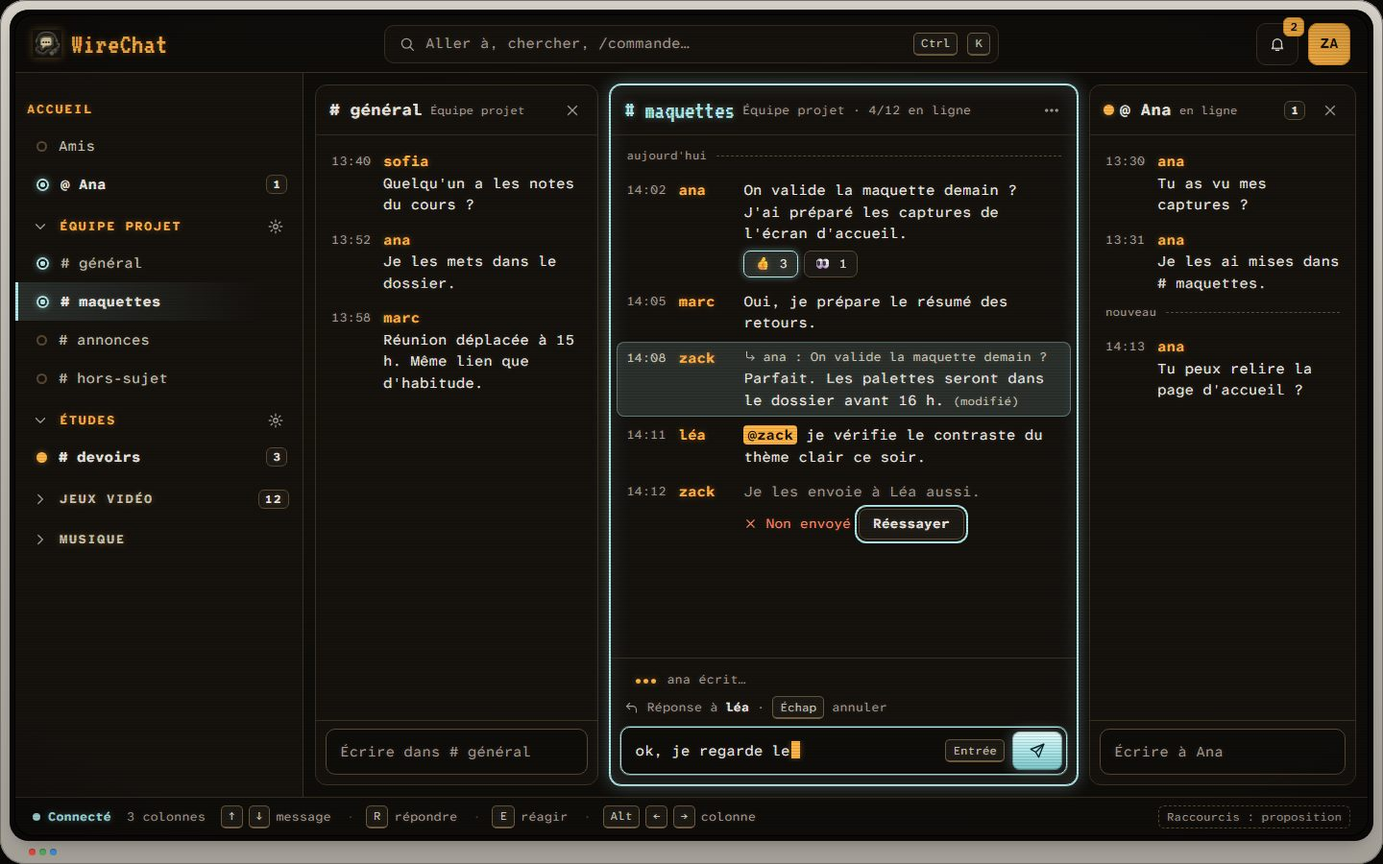
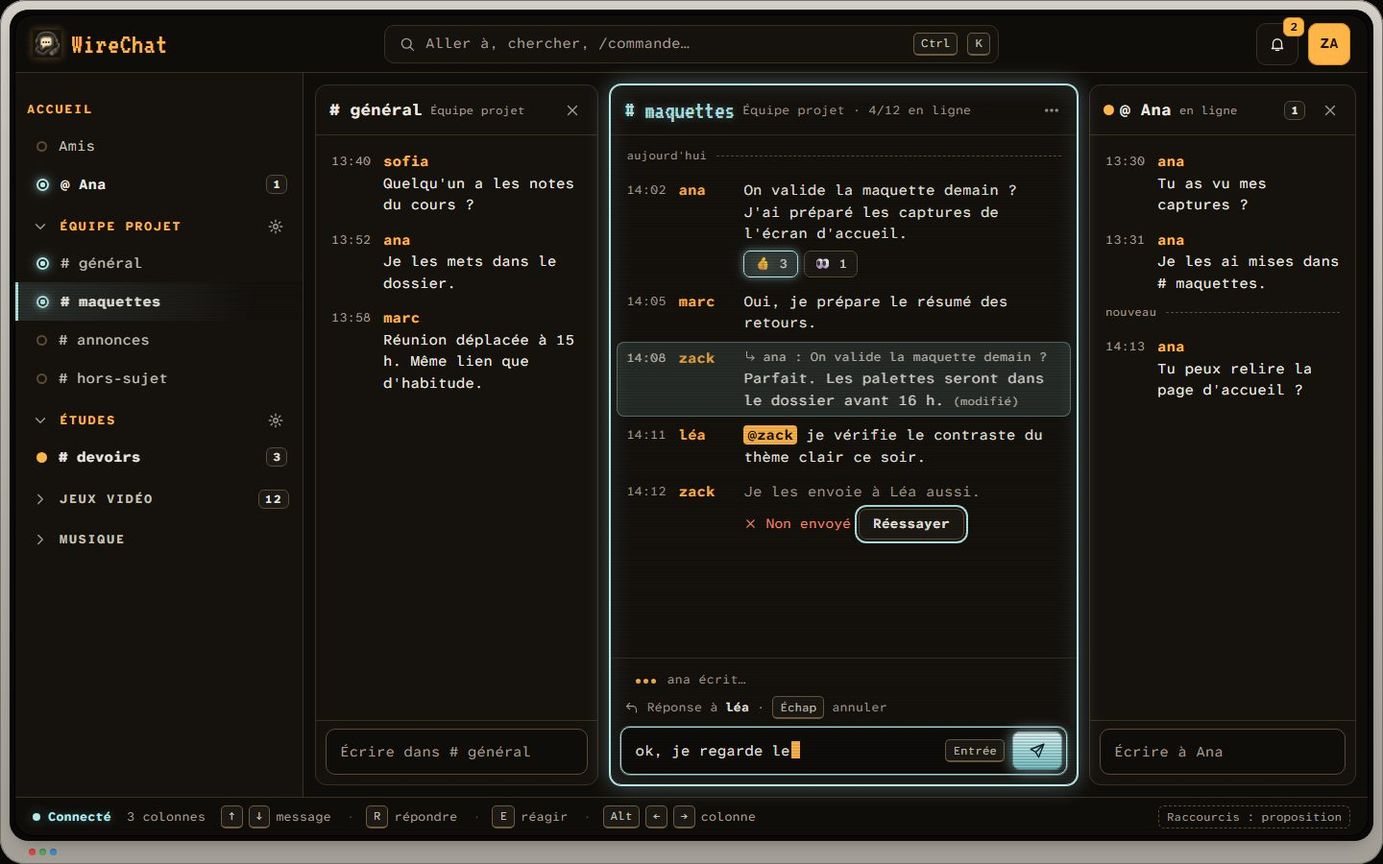
CRT effect only on blue elements, animated

diff --git a/Crt-Spec.html b/Crt-Spec.html
@@ -5,16 +5,14 @@
 <link rel="stylesheet" href="https://fonts.googleapis.com/css2?family=Atkinson+Hyperlegible+Mono:wght@400;700&family=VT323&display=swap">
 <style>
 body{margin:0;background:#0b0a08}
-.dark{--chassis:#1d1b18;--rim:#8e8a82;--glass:#0f0d0a;--panel:#15120e;--raise:#1d1914;--line:#3a3022;--line2:#5a4a33;--ph:#ece8e1;--ph2:#c8c2b8;--dim:#a39d93;--hot:#ffb547;--amb:#ffb547;--amb-hi:#ffd58f;--amb-lo:#d98a1c;--onamb:#1a1206;--blue:#b2e9eb;--blue-ink:#b2e9eb;--blue-fill:rgba(178,233,235,.14);--key-b-hi:#e6fbfc;--key-b:#b2e9eb;--key-b-lo:#7cc5c9;--onblue:#0b2427;--focus:#b2e9eb;--blue-glow:rgba(178,233,235,.38);--err:#ff8a66;--glow:0 0 5px rgba(236,232,225,.2);--glow-a:0 0 6px rgba(255,181,71,.38);--glow-b:0 0 7px rgba(178,233,235,.45);--scan:rgba(0,0,0,.13);--vig:rgba(0,0,0,.42);--sel:rgba(255,181,71,.28);--field:rgba(255,170,60,.06);--keyb:#6e5b3f}
+.dark{--chassis:#1d1b18;--rim:#8e8a82;--glass:#0f0d0a;--panel:#15120e;--raise:#1d1914;--line:#3a3022;--line2:#5a4a33;--ph:#ece8e1;--ph2:#c8c2b8;--dim:#a39d93;--hot:#ffb547;--amb:#ffb547;--amb-hi:#ffd58f;--amb-lo:#d98a1c;--onamb:#1a1206;--blue:#b2e9eb;--blue-ink:#b2e9eb;--blue-fill:rgba(178,233,235,.14);--key-b-hi:#e6fbfc;--key-b:#b2e9eb;--key-b-lo:#7cc5c9;--onblue:#0b2427;--focus:#b2e9eb;--blue-glow:rgba(178,233,235,.38);--err:#ff8a66;--glow:none;--glow-a:none;--glow-b:0 0 7px rgba(178,233,235,.45);--scan:rgba(0,0,0,.13);--vig:rgba(0,0,0,.42);--sel:rgba(255,181,71,.28);--field:rgba(255,170,60,.06);--keyb:#6e5b3f}
 .light{--chassis:#cfcac0;--rim:#8e8a82;--glass:#e4e1da;--panel:#efede7;--raise:#f8f6f1;--line:#c9c2b4;--line2:#9c9485;--ph:#1c1712;--ph2:#3d3427;--dim:#5e5444;--hot:#8a4f00;--amb:#e7a13c;--amb-hi:#f6c77a;--amb-lo:#c8811a;--onamb:#1a1206;--blue:#0b5d63;--blue-ink:#0b5d63;--blue-fill:#b2e9eb;--key-b-hi:#2a8a91;--key-b:#0b5d63;--key-b-lo:#07454a;--onblue:#ffffff;--focus:#0b5d63;--blue-glow:rgba(11,93,99,.22);--err:#b3261e;--glow:none;--glow-a:none;--glow-b:none;--scan:rgba(40,30,15,.05);--vig:rgba(70,58,38,.14);--sel:rgba(231,161,60,.35);--field:rgba(255,255,255,.35);--keyb:#9c9485}
 .tv{position:relative;box-sizing:border-box;width:100%;height:100%;padding:16px 16px 30px;border-radius:26px;background:linear-gradient(180deg,#d4d0c8 0%,#b9b5ad 48%,#a39f97 100%);box-shadow:inset 0 0 0 1px #77736c,inset 0 1px 0 rgba(255,255,255,.6),0 10px 30px rgba(0,0,0,.45)}
 .tv:before{content:"";position:absolute;inset:10px 10px 24px;border-radius:20px;background:#0c0b0a;box-shadow:inset 0 2px 3px rgba(0,0,0,.8)}
 .tv>.screen{position:relative;z-index:1}
 .bezel-triad{position:absolute;left:30px;bottom:9px;display:flex;gap:4px;z-index:2}.bezel-triad i{width:7px;height:7px;border-radius:50%;background:#d8473a;box-shadow:inset 0 1px 1px rgba(0,0,0,.35)}.bezel-triad i:nth-child(2){background:#4fa45a}.bezel-triad i:nth-child(3){background:#3f86c6}
-.screen{position:relative;box-sizing:border-box;height:100%;border-radius:18px;overflow:hidden;background:radial-gradient(ellipse 70% 60% at 50% 45%,var(--field) 0%,transparent 70%),var(--glass);color:var(--ph);font-family:'Atkinson Hyperlegible Mono',ui-monospace,monospace;font-size:15px;line-height:1.5;text-shadow:var(--glow);box-shadow:0 0 0 1px #000,0 6px 18px rgba(0,0,0,.35)}
+.screen{position:relative;box-sizing:border-box;height:100%;border-radius:18px;overflow:hidden;background:var(--glass);color:var(--ph);font-family:'Atkinson Hyperlegible Mono',ui-monospace,monospace;font-size:15px;line-height:1.5;text-shadow:var(--glow);box-shadow:0 0 0 1px #000,0 6px 18px rgba(0,0,0,.35)}
 .screen ::selection{background:var(--sel);color:var(--ph)}
-.fx .screen:after{content:"";position:absolute;inset:0;z-index:30;pointer-events:none;background:repeating-linear-gradient(0deg,var(--scan) 0 1px,transparent 1px 3px)}
-.fx .screen:before{content:"";position:absolute;inset:0;z-index:31;pointer-events:none;border-radius:18px;background:radial-gradient(ellipse 85% 80% at 50% 50%,transparent 72%,var(--vig) 100%)}
 .noglow .screen{text-shadow:none}
 svg{width:18px;height:18px;fill:none;stroke:currentColor;stroke-width:1.8;stroke-linecap:round;stroke-linejoin:round;flex:none}
 button{font:inherit;color:inherit;text-shadow:inherit;background:none;border:0;padding:0;cursor:pointer}
@@ -23,7 +21,6 @@ button{font:inherit;color:inherit;text-shadow:inherit;background:none;border:0;p
 .brand{display:flex;align-items:center;gap:10px}
 .brand img{width:30px;height:30px;object-fit:contain;filter:drop-shadow(0 0 4px rgba(255,181,71,.35))}
 .word{font-family:'VT323',monospace;font-size:30px;line-height:1;color:var(--hot);letter-spacing:.02em}
-.triad{display:flex;gap:3px;margin-left:2px}.triad i{width:6px;height:6px;border-radius:50%;background:#e2584a}.triad i:nth-child(2){background:#7cc37a}.triad i:nth-child(3){background:#6fb6e8}
 .cmd{display:flex;align-items:center;gap:10px;height:40px;box-sizing:border-box;padding:0 8px 0 14px;max-width:640px;width:100%;justify-self:center;background:var(--panel);border:1px solid var(--line);border-radius:10px;color:var(--dim)}
 .cmd .ph{flex:1;white-space:nowrap;overflow:hidden;text-overflow:ellipsis}
 .kbd{display:inline-flex;align-items:center;justify-content:center;min-width:22px;height:24px;box-sizing:border-box;padding:0 7px;border:1px solid var(--keyb);border-bottom-width:2px;border-radius:5px;font-size:12px;color:var(--ph2);background:var(--raise)}
@@ -31,7 +28,7 @@ button{font:inherit;color:inherit;text-shadow:inherit;background:none;border:0;p
 .ib{position:relative;width:44px;height:44px;display:flex;align-items:center;justify-content:center;border:1px solid var(--line);border-radius:10px;background:var(--panel);color:var(--ph)}
 .cnt{display:inline-flex;align-items:center;justify-content:center;min-width:22px;height:20px;box-sizing:border-box;padding:0 6px;border-radius:6px;background:var(--raise);border:1px solid var(--line2);color:var(--ph);font-size:12px;font-weight:700}
 .ib .cnt{position:absolute;top:-7px;right:-7px;background:var(--amb);color:var(--onamb);border-color:var(--amb-lo);text-shadow:none}
-.me{width:44px;height:44px;display:flex;align-items:center;justify-content:center;border-radius:10px;background:linear-gradient(180deg,var(--amb-hi),var(--amb) 45%,var(--amb-lo));color:var(--onamb);font-weight:700;text-shadow:none;box-shadow:inset 0 0 0 1px rgba(0,0,0,.3),0 0 12px var(--sel)}
+.me{text-shadow:none;width:44px;height:44px;display:flex;align-items:center;justify-content:center;border-radius:10px;background:linear-gradient(180deg,var(--amb-hi),var(--amb) 45%,var(--amb-lo));color:var(--onamb);font-weight:700;text-shadow:none;box-shadow:inset 0 0 0 1px rgba(0,0,0,.3),0 0 12px var(--sel)}
 .body{display:grid;grid-template-columns:300px minmax(0,1fr);min-height:0}
 .side{border-right:1px solid var(--line);padding:14px 0;overflow:hidden;background:var(--panel)}
 .sec{display:flex;align-items:center;gap:6px;min-height:36px;padding:0 14px 0 12px;margin-top:6px;font-weight:700;font-size:13px;letter-spacing:.12em;text-transform:uppercase;color:var(--hot)}
@@ -47,8 +44,6 @@ button{font:inherit;color:inherit;text-shadow:inherit;background:none;border:0;p
 .row.un .nm{color:var(--ph);font-weight:700}
 .row.on{background:linear-gradient(90deg,var(--blue-fill),transparent 85%);color:var(--ph);box-shadow:inset 3px 0 0 var(--blue)}
 .row.on .nm{color:var(--ph);font-weight:700}
-.legend{margin:18px 14px 0;padding:12px 12px;border:1px dashed var(--line2);border-radius:8px;font-size:12px;color:var(--dim);display:grid;gap:6px}
-.legend div{display:flex;align-items:center;gap:8px}
 .cols{display:grid;grid-template-columns:minmax(0,.85fr) minmax(0,1.4fr) minmax(0,.8fr);gap:12px;padding:12px;min-height:0}
 .col{display:grid;grid-template-rows:52px minmax(0,1fr) auto;min-height:0;border:1px solid var(--line);border-radius:12px;background:var(--panel);overflow:hidden}
 .col.focus{border-color:var(--blue);box-shadow:0 0 0 1px var(--blue),0 0 18px var(--blue-glow),inset 0 0 22px var(--blue-fill)}
@@ -151,6 +146,22 @@ button{font:inherit;color:inherit;text-shadow:inherit;background:none;border:0;p
 .chrow .open{font-size:12px;color:var(--blue-ink)}
 .word,.sec,.m b,.card h2,.spec h2,.dot.un,.typ i,.caret,.chip.mine,.men{text-shadow:var(--glow-a)}
 .dot.un,.typ i,.caret{box-shadow:var(--glow-a)}
+.col.focus,.send,.chip.mine,.m.sel,.btn.done,.sec.cur,.row.on,.status .live{position:relative;isolation:isolate}
+.col.focus,.send,.chip.mine,.m.sel,.btn.done,.sec.cur,.row.on{overflow:hidden}
+.fx .col.focus:after,.fx .send:after,.fx .chip.mine:after,.fx .m.sel:after,.fx .btn.done:after,.fx .sec.cur:after,.fx .row.on:after{content:"";position:absolute;inset:0;z-index:5;pointer-events:none;border-radius:inherit;background:repeating-linear-gradient(0deg,var(--crt-line) 0 1px,transparent 1px 3px);animation:crt-roll 1.2s linear infinite}
+.fx .col.focus:before,.fx .send:before,.fx .m.sel:before,.fx .sec.cur:before{content:"";position:absolute;left:0;right:0;top:0;height:38%;z-index:6;pointer-events:none;border-radius:inherit;background:linear-gradient(180deg,transparent,var(--crt-band) 50%,transparent);animation:crt-sweep 7s cubic-bezier(.4,0,.6,1) infinite}
+.fx .col.focus{animation:crt-breathe-frame 4s ease-in-out infinite alternate}
+.fx .send,.fx .chip.mine,.fx .btn.done{animation:crt-breathe 4s ease-in-out infinite alternate}
+.fx .dot.open,.fx .status .live i{animation:crt-breathe 4s ease-in-out infinite alternate}
+.fx .focus .ch .t,.fx .status .live,.fx .chrow.on .nm,.fx .sec.cur .lbl{animation:crt-text 4s ease-in-out infinite alternate}
+.dark{--crt-line:rgba(0,0,0,.2);--crt-band:rgba(178,233,235,.16)}
+.light{--crt-line:rgba(11,93,99,.14);--crt-band:rgba(255,255,255,.4)}
+@keyframes crt-roll{from{background-position:0 0}to{background-position:0 3px}}
+@keyframes crt-sweep{0%{transform:translateY(-110%)}60%,100%{transform:translateY(280%)}}
+@keyframes crt-breathe{from{filter:drop-shadow(0 0 2px var(--blue-glow))}to{filter:drop-shadow(0 0 7px var(--blue-glow))}}
+@keyframes crt-breathe-frame{from{box-shadow:0 0 0 1px var(--blue),0 0 10px var(--blue-glow),inset 0 0 14px var(--blue-fill)}to{box-shadow:0 0 0 1px var(--blue),0 0 24px var(--blue-glow),inset 0 0 26px var(--blue-fill)}}
+@keyframes crt-text{from{text-shadow:0 0 3px var(--blue-glow)}to{text-shadow:0 0 9px var(--blue-glow)}}
+@media (prefers-reduced-motion:reduce){.fx *,.fx *:before,.fx *:after{animation:none!important}}
 .send{color:var(--onblue);background-color:var(--key-b);background-image:linear-gradient(180deg,var(--key-b-hi) 0%,var(--key-b) 46%,var(--key-b-lo) 100%);box-shadow:inset 0 0 0 1px rgba(0,0,0,.32),inset 0 1px 0 rgba(255,255,255,.45),0 0 14px var(--blue-glow),0 2px 4px rgba(0,0,0,.35)}
 .chip.mine{border-color:var(--blue);background:var(--blue-fill);box-shadow:var(--glow-b)}
 .me,.btn.pri,.sv .badge{background-image:none;background-color:var(--amb);box-shadow:inset 0 0 0 1px var(--amb-lo)}
@@ -190,7 +201,7 @@ button{font:inherit;color:inherit;text-shadow:inherit;background:none;border:0;p
 <div class="tv"><span class="bezel-triad" aria-hidden="true"><i></i><i></i><i></i></span><div class="screen" style="overflow:hidden">
 <div class="spec">
   <h1 class="word" style="font-size:52px">WireChat, sur un écran cathodique</h1>
-  <p class="lead">Texte blanc phosphore, ambre pour les noms, titres et non-lus, bleu Trinitron <b>#B2E9EB</b> pour ce qui est actif. Les effets (lueur, lignes de balayage, vignettage) restent légers et peuvent être coupés dans les réglages (Tweaks : effets).</p>
+  <p class="lead">Texte blanc, ambre pour les noms, titres et non-lus. L'effet cathodique (lignes de balayage qui défilent, lueur qui respire) est réservé au bleu Trinitron <b>#B2E9EB</b>, donc à ce qui est actif. Il s'arrête si le système demande moins d'animations et peut être coupé (Tweaks : effets).</p>
   <div class="two">
     <section><h2>Palette sombre</h2>
       <div class="sw"><span style="background:#0f0d0a"></span><b>Verre</b><small>#0f0d0a</small></div><div class="sw"><span style="background:#15120e"></span><b>Panneau</b><small>#15120e</small></div><div class="sw"><span style="background:#ece8e1"></span><b>Texte</b><small>#ece8e1 · 15,3:1</small></div><div class="sw"><span style="background:#ffb547"></span><b>Noms</b><small>#ffb547 · 10,6:1</small></div><div class="sw"><span style="background:#a39d93"></span><b>Atténué</b><small>#a39d93 · 6,9:1</small></div><div class="sw"><span style="background:#b2e9eb"></span><b>Bleu actif</b><small>#b2e9eb · 14:1</small></div><div class="sw"><span style="background:#ff8a66"></span><b>Erreur</b><small>#ff8a66 · 8,1:1</small></div><div class="sw"><span style="background:#8e8a82"></span><b>Alu</b><small>#8e8a82</small></div>
@@ -203,9 +214,9 @@ button{font:inherit;color:inherit;text-shadow:inherit;background:none;border:0;p
     <div class="anat">
       <div class="big"><div class="field" style="min-height:64px"><span class="val" style="font-size:20px">ok, je regarde le<span class="caret" style="height:22px;width:11px"></span></span><span class="kbd">Entrée</span><button class="send" style="width:74px;height:56px" aria-label="Envoyer"><svg viewBox="0 0 24 24" aria-hidden="true"><path d="M21 3L10 14"/><path d="M21 3l-7 18-4-7-7-4z"/></svg></button></div></div>
       <ol>
-        <li><b>Lueur</b> : halo léger sur le texte blanc, plus marqué sur l'ambre et le bleu. Désactivée en thème clair.</li>
-        <li><b>Balayage</b> : une ligne sombre toutes les 3 px sur tout l'écran, aussi sur les boutons pleins.</li>
-        <li><b>Vignettage</b> : les coins s'assombrissent comme derrière un verre bombé.</li>
+        <li><b>Lueur qui respire</b> : le halo bleu monte et redescend doucement toutes les 4 s. Aucun clignotement.</li>
+        <li><b>Balayage</b> : une ligne sombre toutes les 3 px, qui défile lentement vers le bas, seulement sur les éléments bleus.</li>
+        <li><b>Bande de rafraîchissement</b> : une bande claire traverse l'élément bleu de haut en bas toutes les 7 s.</li>
         <li><b>Touche lumineuse</b> : bouton d'envoi en dégradé bleu Trinitron, reflet en haut, liseré sombre, halo.</li>
         <li><b>Curseur bloc</b> et <b>touches</b> dessinées pour les raccourcis.</li>
         <li><b>Bleu Trinitron</b> : cadre de la colonne active, touche d'envoi, canal ouvert (anneau à point), état connecté.</li>

diff --git a/Crt-Chat.html b/Crt-Chat.html
@@ -5,16 +5,14 @@
 <link rel="stylesheet" href="https://fonts.googleapis.com/css2?family=Atkinson+Hyperlegible+Mono:wght@400;700&family=VT323&display=swap">
 <style>
 body{margin:0;background:#0b0a08}
-.dark{--chassis:#1d1b18;--rim:#8e8a82;--glass:#0f0d0a;--panel:#15120e;--raise:#1d1914;--line:#3a3022;--line2:#5a4a33;--ph:#ece8e1;--ph2:#c8c2b8;--dim:#a39d93;--hot:#ffb547;--amb:#ffb547;--amb-hi:#ffd58f;--amb-lo:#d98a1c;--onamb:#1a1206;--blue:#b2e9eb;--blue-ink:#b2e9eb;--blue-fill:rgba(178,233,235,.14);--key-b-hi:#e6fbfc;--key-b:#b2e9eb;--key-b-lo:#7cc5c9;--onblue:#0b2427;--focus:#b2e9eb;--blue-glow:rgba(178,233,235,.38);--err:#ff8a66;--glow:0 0 5px rgba(236,232,225,.2);--glow-a:0 0 6px rgba(255,181,71,.38);--glow-b:0 0 7px rgba(178,233,235,.45);--scan:rgba(0,0,0,.13);--vig:rgba(0,0,0,.42);--sel:rgba(255,181,71,.28);--field:rgba(255,170,60,.06);--keyb:#6e5b3f}
+.dark{--chassis:#1d1b18;--rim:#8e8a82;--glass:#0f0d0a;--panel:#15120e;--raise:#1d1914;--line:#3a3022;--line2:#5a4a33;--ph:#ece8e1;--ph2:#c8c2b8;--dim:#a39d93;--hot:#ffb547;--amb:#ffb547;--amb-hi:#ffd58f;--amb-lo:#d98a1c;--onamb:#1a1206;--blue:#b2e9eb;--blue-ink:#b2e9eb;--blue-fill:rgba(178,233,235,.14);--key-b-hi:#e6fbfc;--key-b:#b2e9eb;--key-b-lo:#7cc5c9;--onblue:#0b2427;--focus:#b2e9eb;--blue-glow:rgba(178,233,235,.38);--err:#ff8a66;--glow:none;--glow-a:none;--glow-b:0 0 7px rgba(178,233,235,.45);--scan:rgba(0,0,0,.13);--vig:rgba(0,0,0,.42);--sel:rgba(255,181,71,.28);--field:rgba(255,170,60,.06);--keyb:#6e5b3f}
 .light{--chassis:#cfcac0;--rim:#8e8a82;--glass:#e4e1da;--panel:#efede7;--raise:#f8f6f1;--line:#c9c2b4;--line2:#9c9485;--ph:#1c1712;--ph2:#3d3427;--dim:#5e5444;--hot:#8a4f00;--amb:#e7a13c;--amb-hi:#f6c77a;--amb-lo:#c8811a;--onamb:#1a1206;--blue:#0b5d63;--blue-ink:#0b5d63;--blue-fill:#b2e9eb;--key-b-hi:#2a8a91;--key-b:#0b5d63;--key-b-lo:#07454a;--onblue:#ffffff;--focus:#0b5d63;--blue-glow:rgba(11,93,99,.22);--err:#b3261e;--glow:none;--glow-a:none;--glow-b:none;--scan:rgba(40,30,15,.05);--vig:rgba(70,58,38,.14);--sel:rgba(231,161,60,.35);--field:rgba(255,255,255,.35);--keyb:#9c9485}
 .tv{position:relative;box-sizing:border-box;width:100%;height:100%;padding:16px 16px 30px;border-radius:26px;background:linear-gradient(180deg,#d4d0c8 0%,#b9b5ad 48%,#a39f97 100%);box-shadow:inset 0 0 0 1px #77736c,inset 0 1px 0 rgba(255,255,255,.6),0 10px 30px rgba(0,0,0,.45)}
 .tv:before{content:"";position:absolute;inset:10px 10px 24px;border-radius:20px;background:#0c0b0a;box-shadow:inset 0 2px 3px rgba(0,0,0,.8)}
 .tv>.screen{position:relative;z-index:1}
 .bezel-triad{position:absolute;left:30px;bottom:9px;display:flex;gap:4px;z-index:2}.bezel-triad i{width:7px;height:7px;border-radius:50%;background:#d8473a;box-shadow:inset 0 1px 1px rgba(0,0,0,.35)}.bezel-triad i:nth-child(2){background:#4fa45a}.bezel-triad i:nth-child(3){background:#3f86c6}
-.screen{position:relative;box-sizing:border-box;height:100%;border-radius:18px;overflow:hidden;background:radial-gradient(ellipse 70% 60% at 50% 45%,var(--field) 0%,transparent 70%),var(--glass);color:var(--ph);font-family:'Atkinson Hyperlegible Mono',ui-monospace,monospace;font-size:15px;line-height:1.5;text-shadow:var(--glow);box-shadow:0 0 0 1px #000,0 6px 18px rgba(0,0,0,.35)}
+.screen{position:relative;box-sizing:border-box;height:100%;border-radius:18px;overflow:hidden;background:var(--glass);color:var(--ph);font-family:'Atkinson Hyperlegible Mono',ui-monospace,monospace;font-size:15px;line-height:1.5;text-shadow:var(--glow);box-shadow:0 0 0 1px #000,0 6px 18px rgba(0,0,0,.35)}
 .screen ::selection{background:var(--sel);color:var(--ph)}
-.fx .screen:after{content:"";position:absolute;inset:0;z-index:30;pointer-events:none;background:repeating-linear-gradient(0deg,var(--scan) 0 1px,transparent 1px 3px)}
-.fx .screen:before{content:"";position:absolute;inset:0;z-index:31;pointer-events:none;border-radius:18px;background:radial-gradient(ellipse 85% 80% at 50% 50%,transparent 72%,var(--vig) 100%)}
 .noglow .screen{text-shadow:none}
 svg{width:18px;height:18px;fill:none;stroke:currentColor;stroke-width:1.8;stroke-linecap:round;stroke-linejoin:round;flex:none}
 button{font:inherit;color:inherit;text-shadow:inherit;background:none;border:0;padding:0;cursor:pointer}
@@ -23,7 +21,6 @@ button{font:inherit;color:inherit;text-shadow:inherit;background:none;border:0;p
 .brand{display:flex;align-items:center;gap:10px}
 .brand img{width:30px;height:30px;object-fit:contain;filter:drop-shadow(0 0 4px rgba(255,181,71,.35))}
 .word{font-family:'VT323',monospace;font-size:30px;line-height:1;color:var(--hot);letter-spacing:.02em}
-.triad{display:flex;gap:3px;margin-left:2px}.triad i{width:6px;height:6px;border-radius:50%;background:#e2584a}.triad i:nth-child(2){background:#7cc37a}.triad i:nth-child(3){background:#6fb6e8}
 .cmd{display:flex;align-items:center;gap:10px;height:40px;box-sizing:border-box;padding:0 8px 0 14px;max-width:640px;width:100%;justify-self:center;background:var(--panel);border:1px solid var(--line);border-radius:10px;color:var(--dim)}
 .cmd .ph{flex:1;white-space:nowrap;overflow:hidden;text-overflow:ellipsis}
 .kbd{display:inline-flex;align-items:center;justify-content:center;min-width:22px;height:24px;box-sizing:border-box;padding:0 7px;border:1px solid var(--keyb);border-bottom-width:2px;border-radius:5px;font-size:12px;color:var(--ph2);background:var(--raise)}
@@ -31,7 +28,7 @@ button{font:inherit;color:inherit;text-shadow:inherit;background:none;border:0;p
 .ib{position:relative;width:44px;height:44px;display:flex;align-items:center;justify-content:center;border:1px solid var(--line);border-radius:10px;background:var(--panel);color:var(--ph)}
 .cnt{display:inline-flex;align-items:center;justify-content:center;min-width:22px;height:20px;box-sizing:border-box;padding:0 6px;border-radius:6px;background:var(--raise);border:1px solid var(--line2);color:var(--ph);font-size:12px;font-weight:700}
 .ib .cnt{position:absolute;top:-7px;right:-7px;background:var(--amb);color:var(--onamb);border-color:var(--amb-lo);text-shadow:none}
-.me{width:44px;height:44px;display:flex;align-items:center;justify-content:center;border-radius:10px;background:linear-gradient(180deg,var(--amb-hi),var(--amb) 45%,var(--amb-lo));color:var(--onamb);font-weight:700;text-shadow:none;box-shadow:inset 0 0 0 1px rgba(0,0,0,.3),0 0 12px var(--sel)}
+.me{text-shadow:none;width:44px;height:44px;display:flex;align-items:center;justify-content:center;border-radius:10px;background:linear-gradient(180deg,var(--amb-hi),var(--amb) 45%,var(--amb-lo));color:var(--onamb);font-weight:700;text-shadow:none;box-shadow:inset 0 0 0 1px rgba(0,0,0,.3),0 0 12px var(--sel)}
 .body{display:grid;grid-template-columns:300px minmax(0,1fr);min-height:0}
 .side{border-right:1px solid var(--line);padding:14px 0;overflow:hidden;background:var(--panel)}
 .sec{display:flex;align-items:center;gap:6px;min-height:36px;padding:0 14px 0 12px;margin-top:6px;font-weight:700;font-size:13px;letter-spacing:.12em;text-transform:uppercase;color:var(--hot)}
@@ -47,8 +44,6 @@ button{font:inherit;color:inherit;text-shadow:inherit;background:none;border:0;p
 .row.un .nm{color:var(--ph);font-weight:700}
 .row.on{background:linear-gradient(90deg,var(--blue-fill),transparent 85%);color:var(--ph);box-shadow:inset 3px 0 0 var(--blue)}
 .row.on .nm{color:var(--ph);font-weight:700}
-.legend{margin:18px 14px 0;padding:12px 12px;border:1px dashed var(--line2);border-radius:8px;font-size:12px;color:var(--dim);display:grid;gap:6px}
-.legend div{display:flex;align-items:center;gap:8px}
 .cols{display:grid;grid-template-columns:minmax(0,.85fr) minmax(0,1.4fr) minmax(0,.8fr);gap:12px;padding:12px;min-height:0}
 .col{display:grid;grid-template-rows:52px minmax(0,1fr) auto;min-height:0;border:1px solid var(--line);border-radius:12px;background:var(--panel);overflow:hidden}
 .col.focus{border-color:var(--blue);box-shadow:0 0 0 1px var(--blue),0 0 18px var(--blue-glow),inset 0 0 22px var(--blue-fill)}
@@ -151,6 +146,22 @@ button{font:inherit;color:inherit;text-shadow:inherit;background:none;border:0;p
 .chrow .open{font-size:12px;color:var(--blue-ink)}
 .word,.sec,.m b,.card h2,.spec h2,.dot.un,.typ i,.caret,.chip.mine,.men{text-shadow:var(--glow-a)}
 .dot.un,.typ i,.caret{box-shadow:var(--glow-a)}
+.col.focus,.send,.chip.mine,.m.sel,.btn.done,.sec.cur,.row.on,.status .live{position:relative;isolation:isolate}
+.col.focus,.send,.chip.mine,.m.sel,.btn.done,.sec.cur,.row.on{overflow:hidden}
+.fx .col.focus:after,.fx .send:after,.fx .chip.mine:after,.fx .m.sel:after,.fx .btn.done:after,.fx .sec.cur:after,.fx .row.on:after{content:"";position:absolute;inset:0;z-index:5;pointer-events:none;border-radius:inherit;background:repeating-linear-gradient(0deg,var(--crt-line) 0 1px,transparent 1px 3px);animation:crt-roll 1.2s linear infinite}
+.fx .col.focus:before,.fx .send:before,.fx .m.sel:before,.fx .sec.cur:before{content:"";position:absolute;left:0;right:0;top:0;height:38%;z-index:6;pointer-events:none;border-radius:inherit;background:linear-gradient(180deg,transparent,var(--crt-band) 50%,transparent);animation:crt-sweep 7s cubic-bezier(.4,0,.6,1) infinite}
+.fx .col.focus{animation:crt-breathe-frame 4s ease-in-out infinite alternate}
+.fx .send,.fx .chip.mine,.fx .btn.done{animation:crt-breathe 4s ease-in-out infinite alternate}
+.fx .dot.open,.fx .status .live i{animation:crt-breathe 4s ease-in-out infinite alternate}
+.fx .focus .ch .t,.fx .status .live,.fx .chrow.on .nm,.fx .sec.cur .lbl{animation:crt-text 4s ease-in-out infinite alternate}
+.dark{--crt-line:rgba(0,0,0,.2);--crt-band:rgba(178,233,235,.16)}
+.light{--crt-line:rgba(11,93,99,.14);--crt-band:rgba(255,255,255,.4)}
+@keyframes crt-roll{from{background-position:0 0}to{background-position:0 3px}}
+@keyframes crt-sweep{0%{transform:translateY(-110%)}60%,100%{transform:translateY(280%)}}
+@keyframes crt-breathe{from{filter:drop-shadow(0 0 2px var(--blue-glow))}to{filter:drop-shadow(0 0 7px var(--blue-glow))}}
+@keyframes crt-breathe-frame{from{box-shadow:0 0 0 1px var(--blue),0 0 10px var(--blue-glow),inset 0 0 14px var(--blue-fill)}to{box-shadow:0 0 0 1px var(--blue),0 0 24px var(--blue-glow),inset 0 0 26px var(--blue-fill)}}
+@keyframes crt-text{from{text-shadow:0 0 3px var(--blue-glow)}to{text-shadow:0 0 9px var(--blue-glow)}}
+@media (prefers-reduced-motion:reduce){.fx *,.fx *:before,.fx *:after{animation:none!important}}
 .send{color:var(--onblue);background-color:var(--key-b);background-image:linear-gradient(180deg,var(--key-b-hi) 0%,var(--key-b) 46%,var(--key-b-lo) 100%);box-shadow:inset 0 0 0 1px rgba(0,0,0,.32),inset 0 1px 0 rgba(255,255,255,.45),0 0 14px var(--blue-glow),0 2px 4px rgba(0,0,0,.35)}
 .chip.mine{border-color:var(--blue);background:var(--blue-fill);box-shadow:var(--glow-b)}
 .me,.btn.pri,.sv .badge{background-image:none;background-color:var(--amb);box-shadow:inset 0 0 0 1px var(--amb-lo)}

diff --git a/Crt-Dashboard.html b/Crt-Dashboard.html
@@ -5,16 +5,14 @@
 <link rel="stylesheet" href="https://fonts.googleapis.com/css2?family=Atkinson+Hyperlegible+Mono:wght@400;700&family=VT323&display=swap">
 <style>
 body{margin:0;background:#0b0a08}
-.dark{--chassis:#1d1b18;--rim:#8e8a82;--glass:#0f0d0a;--panel:#15120e;--raise:#1d1914;--line:#3a3022;--line2:#5a4a33;--ph:#ece8e1;--ph2:#c8c2b8;--dim:#a39d93;--hot:#ffb547;--amb:#ffb547;--amb-hi:#ffd58f;--amb-lo:#d98a1c;--onamb:#1a1206;--blue:#b2e9eb;--blue-ink:#b2e9eb;--blue-fill:rgba(178,233,235,.14);--key-b-hi:#e6fbfc;--key-b:#b2e9eb;--key-b-lo:#7cc5c9;--onblue:#0b2427;--focus:#b2e9eb;--blue-glow:rgba(178,233,235,.38);--err:#ff8a66;--glow:0 0 5px rgba(236,232,225,.2);--glow-a:0 0 6px rgba(255,181,71,.38);--glow-b:0 0 7px rgba(178,233,235,.45);--scan:rgba(0,0,0,.13);--vig:rgba(0,0,0,.42);--sel:rgba(255,181,71,.28);--field:rgba(255,170,60,.06);--keyb:#6e5b3f}
+.dark{--chassis:#1d1b18;--rim:#8e8a82;--glass:#0f0d0a;--panel:#15120e;--raise:#1d1914;--line:#3a3022;--line2:#5a4a33;--ph:#ece8e1;--ph2:#c8c2b8;--dim:#a39d93;--hot:#ffb547;--amb:#ffb547;--amb-hi:#ffd58f;--amb-lo:#d98a1c;--onamb:#1a1206;--blue:#b2e9eb;--blue-ink:#b2e9eb;--blue-fill:rgba(178,233,235,.14);--key-b-hi:#e6fbfc;--key-b:#b2e9eb;--key-b-lo:#7cc5c9;--onblue:#0b2427;--focus:#b2e9eb;--blue-glow:rgba(178,233,235,.38);--err:#ff8a66;--glow:none;--glow-a:none;--glow-b:0 0 7px rgba(178,233,235,.45);--scan:rgba(0,0,0,.13);--vig:rgba(0,0,0,.42);--sel:rgba(255,181,71,.28);--field:rgba(255,170,60,.06);--keyb:#6e5b3f}
 .light{--chassis:#cfcac0;--rim:#8e8a82;--glass:#e4e1da;--panel:#efede7;--raise:#f8f6f1;--line:#c9c2b4;--line2:#9c9485;--ph:#1c1712;--ph2:#3d3427;--dim:#5e5444;--hot:#8a4f00;--amb:#e7a13c;--amb-hi:#f6c77a;--amb-lo:#c8811a;--onamb:#1a1206;--blue:#0b5d63;--blue-ink:#0b5d63;--blue-fill:#b2e9eb;--key-b-hi:#2a8a91;--key-b:#0b5d63;--key-b-lo:#07454a;--onblue:#ffffff;--focus:#0b5d63;--blue-glow:rgba(11,93,99,.22);--err:#b3261e;--glow:none;--glow-a:none;--glow-b:none;--scan:rgba(40,30,15,.05);--vig:rgba(70,58,38,.14);--sel:rgba(231,161,60,.35);--field:rgba(255,255,255,.35);--keyb:#9c9485}
 .tv{position:relative;box-sizing:border-box;width:100%;height:100%;padding:16px 16px 30px;border-radius:26px;background:linear-gradient(180deg,#d4d0c8 0%,#b9b5ad 48%,#a39f97 100%);box-shadow:inset 0 0 0 1px #77736c,inset 0 1px 0 rgba(255,255,255,.6),0 10px 30px rgba(0,0,0,.45)}
 .tv:before{content:"";position:absolute;inset:10px 10px 24px;border-radius:20px;background:#0c0b0a;box-shadow:inset 0 2px 3px rgba(0,0,0,.8)}
 .tv>.screen{position:relative;z-index:1}
 .bezel-triad{position:absolute;left:30px;bottom:9px;display:flex;gap:4px;z-index:2}.bezel-triad i{width:7px;height:7px;border-radius:50%;background:#d8473a;box-shadow:inset 0 1px 1px rgba(0,0,0,.35)}.bezel-triad i:nth-child(2){background:#4fa45a}.bezel-triad i:nth-child(3){background:#3f86c6}
-.screen{position:relative;box-sizing:border-box;height:100%;border-radius:18px;overflow:hidden;background:radial-gradient(ellipse 70% 60% at 50% 45%,var(--field) 0%,transparent 70%),var(--glass);color:var(--ph);font-family:'Atkinson Hyperlegible Mono',ui-monospace,monospace;font-size:15px;line-height:1.5;text-shadow:var(--glow);box-shadow:0 0 0 1px #000,0 6px 18px rgba(0,0,0,.35)}
+.screen{position:relative;box-sizing:border-box;height:100%;border-radius:18px;overflow:hidden;background:var(--glass);color:var(--ph);font-family:'Atkinson Hyperlegible Mono',ui-monospace,monospace;font-size:15px;line-height:1.5;text-shadow:var(--glow);box-shadow:0 0 0 1px #000,0 6px 18px rgba(0,0,0,.35)}
 .screen ::selection{background:var(--sel);color:var(--ph)}
-.fx .screen:after{content:"";position:absolute;inset:0;z-index:30;pointer-events:none;background:repeating-linear-gradient(0deg,var(--scan) 0 1px,transparent 1px 3px)}
-.fx .screen:before{content:"";position:absolute;inset:0;z-index:31;pointer-events:none;border-radius:18px;background:radial-gradient(ellipse 85% 80% at 50% 50%,transparent 72%,var(--vig) 100%)}
 .noglow .screen{text-shadow:none}
 svg{width:18px;height:18px;fill:none;stroke:currentColor;stroke-width:1.8;stroke-linecap:round;stroke-linejoin:round;flex:none}
 button{font:inherit;color:inherit;text-shadow:inherit;background:none;border:0;padding:0;cursor:pointer}
@@ -23,7 +21,6 @@ button{font:inherit;color:inherit;text-shadow:inherit;background:none;border:0;p
 .brand{display:flex;align-items:center;gap:10px}
 .brand img{width:30px;height:30px;object-fit:contain;filter:drop-shadow(0 0 4px rgba(255,181,71,.35))}
 .word{font-family:'VT323',monospace;font-size:30px;line-height:1;color:var(--hot);letter-spacing:.02em}
-.triad{display:flex;gap:3px;margin-left:2px}.triad i{width:6px;height:6px;border-radius:50%;background:#e2584a}.triad i:nth-child(2){background:#7cc37a}.triad i:nth-child(3){background:#6fb6e8}
 .cmd{display:flex;align-items:center;gap:10px;height:40px;box-sizing:border-box;padding:0 8px 0 14px;max-width:640px;width:100%;justify-self:center;background:var(--panel);border:1px solid var(--line);border-radius:10px;color:var(--dim)}
 .cmd .ph{flex:1;white-space:nowrap;overflow:hidden;text-overflow:ellipsis}
 .kbd{display:inline-flex;align-items:center;justify-content:center;min-width:22px;height:24px;box-sizing:border-box;padding:0 7px;border:1px solid var(--keyb);border-bottom-width:2px;border-radius:5px;font-size:12px;color:var(--ph2);background:var(--raise)}
@@ -31,7 +28,7 @@ button{font:inherit;color:inherit;text-shadow:inherit;background:none;border:0;p
 .ib{position:relative;width:44px;height:44px;display:flex;align-items:center;justify-content:center;border:1px solid var(--line);border-radius:10px;background:var(--panel);color:var(--ph)}
 .cnt{display:inline-flex;align-items:center;justify-content:center;min-width:22px;height:20px;box-sizing:border-box;padding:0 6px;border-radius:6px;background:var(--raise);border:1px solid var(--line2);color:var(--ph);font-size:12px;font-weight:700}
 .ib .cnt{position:absolute;top:-7px;right:-7px;background:var(--amb);color:var(--onamb);border-color:var(--amb-lo);text-shadow:none}
-.me{width:44px;height:44px;display:flex;align-items:center;justify-content:center;border-radius:10px;background:linear-gradient(180deg,var(--amb-hi),var(--amb) 45%,var(--amb-lo));color:var(--onamb);font-weight:700;text-shadow:none;box-shadow:inset 0 0 0 1px rgba(0,0,0,.3),0 0 12px var(--sel)}
+.me{text-shadow:none;width:44px;height:44px;display:flex;align-items:center;justify-content:center;border-radius:10px;background:linear-gradient(180deg,var(--amb-hi),var(--amb) 45%,var(--amb-lo));color:var(--onamb);font-weight:700;text-shadow:none;box-shadow:inset 0 0 0 1px rgba(0,0,0,.3),0 0 12px var(--sel)}
 .body{display:grid;grid-template-columns:300px minmax(0,1fr);min-height:0}
 .side{border-right:1px solid var(--line);padding:14px 0;overflow:hidden;background:var(--panel)}
 .sec{display:flex;align-items:center;gap:6px;min-height:36px;padding:0 14px 0 12px;margin-top:6px;font-weight:700;font-size:13px;letter-spacing:.12em;text-transform:uppercase;color:var(--hot)}
@@ -47,8 +44,6 @@ button{font:inherit;color:inherit;text-shadow:inherit;background:none;border:0;p
 .row.un .nm{color:var(--ph);font-weight:700}
 .row.on{background:linear-gradient(90deg,var(--blue-fill),transparent 85%);color:var(--ph);box-shadow:inset 3px 0 0 var(--blue)}
 .row.on .nm{color:var(--ph);font-weight:700}
-.legend{margin:18px 14px 0;padding:12px 12px;border:1px dashed var(--line2);border-radius:8px;font-size:12px;color:var(--dim);display:grid;gap:6px}
-.legend div{display:flex;align-items:center;gap:8px}
 .cols{display:grid;grid-template-columns:minmax(0,.85fr) minmax(0,1.4fr) minmax(0,.8fr);gap:12px;padding:12px;min-height:0}
 .col{display:grid;grid-template-rows:52px minmax(0,1fr) auto;min-height:0;border:1px solid var(--line);border-radius:12px;background:var(--panel);overflow:hidden}
 .col.focus{border-color:var(--blue);box-shadow:0 0 0 1px var(--blue),0 0 18px var(--blue-glow),inset 0 0 22px var(--blue-fill)}
@@ -151,6 +146,22 @@ button{font:inherit;color:inherit;text-shadow:inherit;background:none;border:0;p
 .chrow .open{font-size:12px;color:var(--blue-ink)}
 .word,.sec,.m b,.card h2,.spec h2,.dot.un,.typ i,.caret,.chip.mine,.men{text-shadow:var(--glow-a)}
 .dot.un,.typ i,.caret{box-shadow:var(--glow-a)}
+.col.focus,.send,.chip.mine,.m.sel,.btn.done,.sec.cur,.row.on,.status .live{position:relative;isolation:isolate}
+.col.focus,.send,.chip.mine,.m.sel,.btn.done,.sec.cur,.row.on{overflow:hidden}
+.fx .col.focus:after,.fx .send:after,.fx .chip.mine:after,.fx .m.sel:after,.fx .btn.done:after,.fx .sec.cur:after,.fx .row.on:after{content:"";position:absolute;inset:0;z-index:5;pointer-events:none;border-radius:inherit;background:repeating-linear-gradient(0deg,var(--crt-line) 0 1px,transparent 1px 3px);animation:crt-roll 1.2s linear infinite}
+.fx .col.focus:before,.fx .send:before,.fx .m.sel:before,.fx .sec.cur:before{content:"";position:absolute;left:0;right:0;top:0;height:38%;z-index:6;pointer-events:none;border-radius:inherit;background:linear-gradient(180deg,transparent,var(--crt-band) 50%,transparent);animation:crt-sweep 7s cubic-bezier(.4,0,.6,1) infinite}
+.fx .col.focus{animation:crt-breathe-frame 4s ease-in-out infinite alternate}
+.fx .send,.fx .chip.mine,.fx .btn.done{animation:crt-breathe 4s ease-in-out infinite alternate}
+.fx .dot.open,.fx .status .live i{animation:crt-breathe 4s ease-in-out infinite alternate}
+.fx .focus .ch .t,.fx .status .live,.fx .chrow.on .nm,.fx .sec.cur .lbl{animation:crt-text 4s ease-in-out infinite alternate}
+.dark{--crt-line:rgba(0,0,0,.2);--crt-band:rgba(178,233,235,.16)}
+.light{--crt-line:rgba(11,93,99,.14);--crt-band:rgba(255,255,255,.4)}
+@keyframes crt-roll{from{background-position:0 0}to{background-position:0 3px}}
+@keyframes crt-sweep{0%{transform:translateY(-110%)}60%,100%{transform:translateY(280%)}}
+@keyframes crt-breathe{from{filter:drop-shadow(0 0 2px var(--blue-glow))}to{filter:drop-shadow(0 0 7px var(--blue-glow))}}
+@keyframes crt-breathe-frame{from{box-shadow:0 0 0 1px var(--blue),0 0 10px var(--blue-glow),inset 0 0 14px var(--blue-fill)}to{box-shadow:0 0 0 1px var(--blue),0 0 24px var(--blue-glow),inset 0 0 26px var(--blue-fill)}}
+@keyframes crt-text{from{text-shadow:0 0 3px var(--blue-glow)}to{text-shadow:0 0 9px var(--blue-glow)}}
+@media (prefers-reduced-motion:reduce){.fx *,.fx *:before,.fx *:after{animation:none!important}}
 .send{color:var(--onblue);background-color:var(--key-b);background-image:linear-gradient(180deg,var(--key-b-hi) 0%,var(--key-b) 46%,var(--key-b-lo) 100%);box-shadow:inset 0 0 0 1px rgba(0,0,0,.32),inset 0 1px 0 rgba(255,255,255,.45),0 0 14px var(--blue-glow),0 2px 4px rgba(0,0,0,.35)}
 .chip.mine{border-color:var(--blue);background:var(--blue-fill);box-shadow:var(--glow-b)}
 .me,.btn.pri,.sv .badge{background-image:none;background-color:var(--amb);box-shadow:inset 0 0 0 1px var(--amb-lo)}
